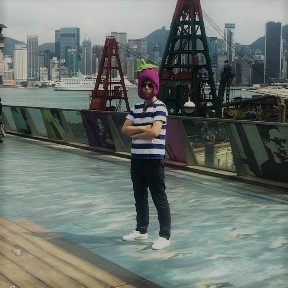
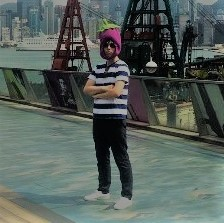
プロフィール写真と自己紹介文を修正

diff --git a/index.html b/index.html
@@ -40,13 +40,13 @@
                     <img src="image/Image_.jpg" alt>
                 </div>
                 <p>
-                    I am working as a systems engineer at
+                    I am working as a Systems Engineer at
                     <a href="https://www.unisys.co.jp/index.html">Nihon Unisys, Ltd
                 </a>
                 </p>
 
                 <p>
-                    My hobby is playing golf. Recently, I also like climbing.
+                    My hobby is playing golf. Recently, I also like climbing and taveling.
                 </p>
                 <p>
                     If you have any comments, please feel free to follow on

diff --git a/css/style.css b/css/style.css
@@ -41,7 +41,7 @@ body {
 
 .profile {
     margin: 150px 10px 10px 10px;
-    padding: 5px 5px 5px 5px;
+    padding: 100px 5px 5px 5px;
     flex: 1;
     text-align: center;
 }
